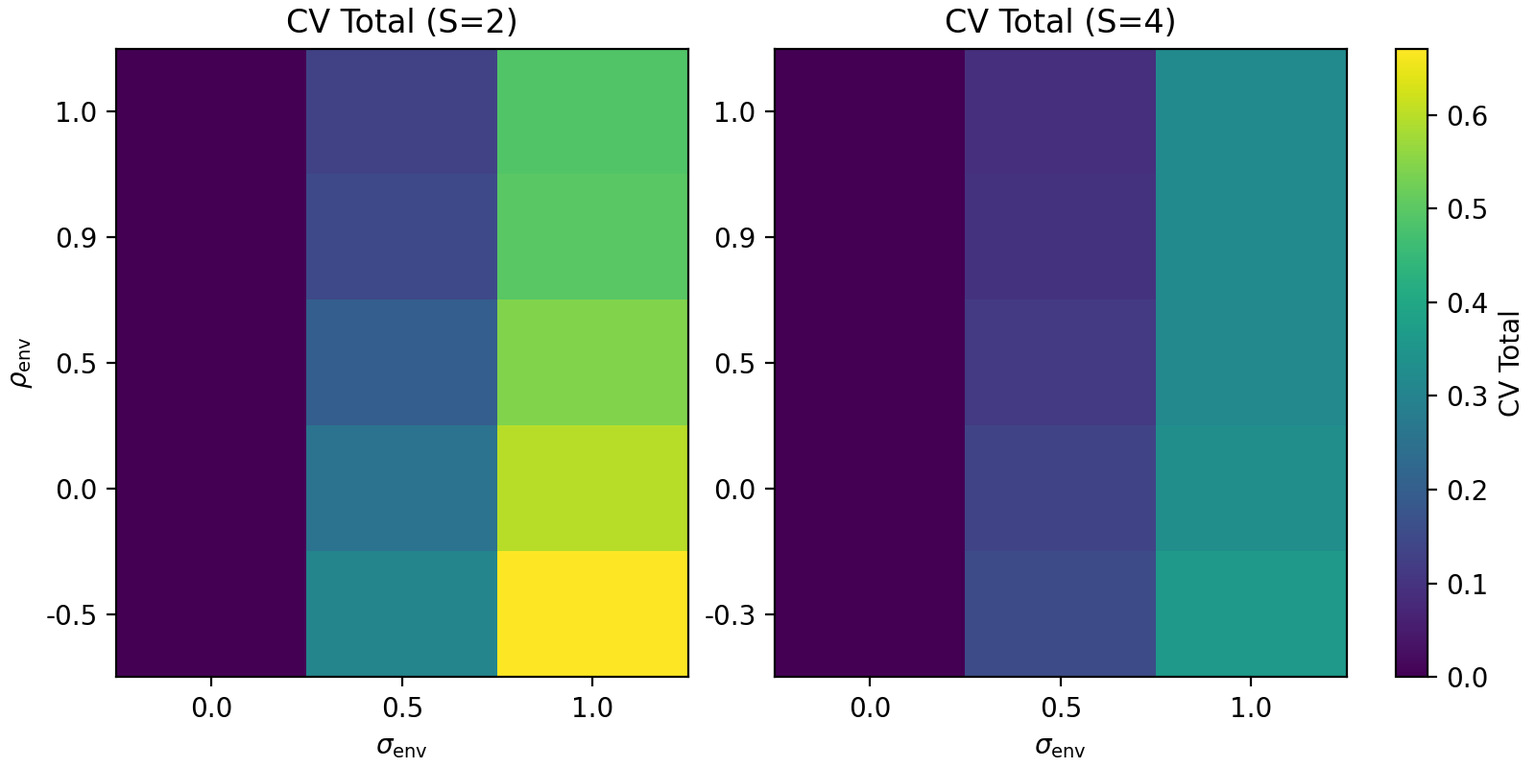
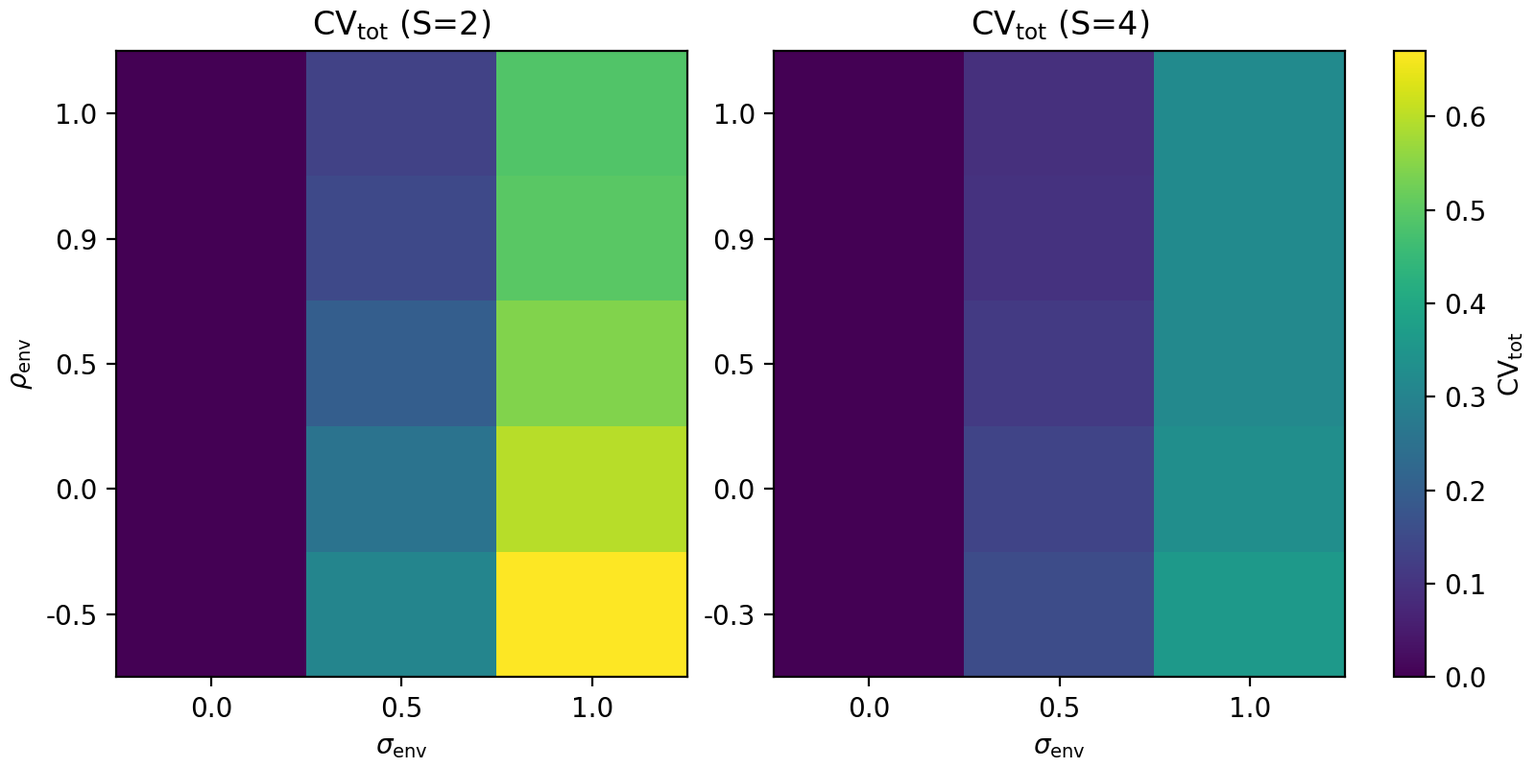
Bundle figure notation/label updates and manuscript-support doc sync

diff --git a/analysis/run_all.py b/analysis/run_all.py
@@ -16,6 +16,7 @@ import argparse
 import subprocess
 from pathlib import Path
 
+from matplotlib.image import AxesImage
 import matplotlib.pyplot as plt
 import numpy as np
 import pandas as pd
@@ -184,7 +185,7 @@ def ensure_reports(summary_df: pd.DataFrame, out_prefix: Path) -> None:
     REPORTS.mkdir(parents=True, exist_ok=True)
     summary_df = ensure_effective_rho(summary_df)
     metric_labels = {
-        "cv_total": "CV Total",
+        "cv_total": r"$\mathrm{CV}_{\mathrm{tot}}$",
         "phi_ldm": r"$\phi_{\mathrm{LdM}}$",
     }
     # Heatmaps of CV and phi_ldm per richness
@@ -205,6 +206,7 @@ def ensure_reports(summary_df: pd.DataFrame, out_prefix: Path) -> None:
             axes_list = [axes]
         else:
             axes_list = list(np.ravel(axes))
+        im: AxesImage | None = None
         for i, (ax, s) in enumerate(zip(axes_list, richness)):
             table = tables[s]
             im = ax.imshow(
@@ -223,6 +225,7 @@ def ensure_reports(summary_df: pd.DataFrame, out_prefix: Path) -> None:
             ax.set_xticklabels([f"{c:.1f}" for c in table.columns])
             ax.set_yticks(range(len(table.index)))
             ax.set_yticklabels([f"{r:.1f}" for r in table.index])
+        assert im is not None
         cbar = fig.colorbar(im, ax=axes_list, fraction=0.030, pad=0.04)
         cbar.set_label(metric_label)
         fig.savefig(out_prefix.with_name(out_prefix.name + f"_{metric}.png"), dpi=200)
@@ -453,10 +456,8 @@ def make_synchrony_panels(summary_mixed: pd.DataFrame, summary_pos: pd.DataFrame
         ("positive", pos_mean, "s"),
     ]:
         # Collapse across richness to one regime-level curve per slope mode.
-        regime_mean = (
-            df_mean.groupby("rho_eff", as_index=False)[["delta_corr"]]
-            .mean()
-            .sort_values("rho_eff")
+        regime_mean = sort_by_rho_eff(
+            pd.DataFrame(df_mean.groupby("rho_eff", as_index=False)[["delta_corr"]].mean())
         )
         ax.plot(
             regime_mean["rho_eff"],
@@ -577,14 +578,14 @@ def make_phi_overlay(phi_runs: dict[str, pd.DataFrame], out_path: Path, sigma_ta
             xlim=(-0.5, 1.0),
         )
         if idx == 0:
-            ax.set_ylabel("CV Total")
+            ax.set_ylabel(r"$\mathrm{CV}_{\mathrm{tot}}$")
             ax.legend(
                 fontsize=8,
                 title=r"$\phi$ ($\sigma_{\mathrm{eff}}$)",
                 title_fontsize=9,
             )
     fig.suptitle(
-        rf"CV versus $\rho_{{\mathrm{{env}}}}$ at $\sigma_{{\mathrm{{env}}}}={sigma_target}$ across $\phi$ (mixed slopes)",
+        rf"$\mathrm{{CV}}_{{\mathrm{{tot}}}}$ versus $\rho_{{\mathrm{{env}}}}$ at $\sigma_{{\mathrm{{env}}}}={sigma_target}$ across $\phi$ (mixed slopes)",
         fontsize=12,
     )
     fig.tight_layout(rect=(0, 0, 1, 0.94))
@@ -796,26 +797,33 @@ def main() -> None:
         supp_phi_src.unlink()
 
     # Magnitude-matched aligned-slope control (if available)
+    matched_path: Path | None = None
     if summary_pos_matched is not None:
-        matched_path = REPORTS / "positive_matched_control.png"
+        matched_path = REPORTS / "figS3_positive_matched_control.png"
         make_positive_matched_control(summary_mixed, summary_pos, summary_pos_matched, matched_path)
 
     # Copy key panels to manuscript/figures
-    copy_figures(
-        [
-            panel_path,
-            panel_pdf_path,
-            sync_panel_path,
-            cv_sync_path,
-            phi_overlay_path,
-            supp_cv_path,
-            supp_phi_path,
-            richness_fig_path,
-        ]
-    )
+    figure_paths = [
+        panel_path,
+        panel_pdf_path,
+        sync_panel_path,
+        cv_sync_path,
+        phi_overlay_path,
+        supp_cv_path,
+        supp_phi_path,
+        richness_fig_path,
+    ]
+    if matched_path is not None:
+        figure_paths.append(matched_path)
+    copy_figures(figure_paths)
 
     # Remove stale supplementary filenames after transition to figS* names.
-    for legacy in [FIG_DIR / "run1_cv_total.png", FIG_DIR / "run1_phi_ldm.png"]:
+    for legacy in [
+        FIG_DIR / "run1_cv_total.png",
+        FIG_DIR / "run1_phi_ldm.png",
+        REPORTS / "positive_matched_control.png",
+        FIG_DIR / "positive_matched_control.png",
+    ]:
         if legacy.exists():
             legacy.unlink()
             print(f"Removed legacy figure {legacy}")

diff --git a/manuscript/text/figure_captions_v2.md b/manuscript/text/figure_captions_v2.md
@@ -1,21 +1,23 @@
-# Figure captions
+# Figure captions (v2)
 
-**Figure 1.** Insurance simulations under mixed versus aligned responses. Community variability and realised growth synchrony for mixed response slopes (directionally diverse) versus positive response slopes (aligned). **(A)** Heatmap of (\mathrm{CV}*{\mathrm{tot}}) across innovation SD (\sigma*{\mathrm{env}}) (columns) and imposed environmental correlation (\rho_{\mathrm{env}}) (rows) for mixed slopes with (S=4); darker colours indicate lower variability. **(B)** As in (A) but for positive slopes with (S=4), showing increasing (\mathrm{CV}*{\mathrm{tot}}) with both (\sigma*{\mathrm{env}}) and (\rho_{\mathrm{env}}). **(C)** (\mathrm{CV}*{\mathrm{tot}}) versus (\rho*{\mathrm{env}}) at (\sigma_{\mathrm{env}}=0.5) for (S=4) and (S=8); points show replicate values and lines show scenario means (mixed: solid; positive: dashed). **(D)** Realised growth synchrony (mean pairwise correlation of per-capita growth rates) versus imposed driver correlation (\rho_{\mathrm{env}}); the dashed line indicates equality ((y=x)). For (\rho_{\mathrm{env}}\ge 0), mixed slopes yield much lower realised synchrony than imposed correlation and often negative growth-rate correlations, whereas positive slopes maintain high realised synchrony that increases with (\rho_{\mathrm{env}}).
+**Figure 1.** Insurance simulations under mixed versus aligned responses. Community variability and realised growth synchrony for mixed response slopes (directionally diverse) versus positive response slopes (aligned). **(A)** Heatmap of $\mathrm{CV}_{\mathrm{tot}}$ across innovation SD $\sigma_{\mathrm{env}}$ (columns) and imposed environmental correlation $\rho_{\mathrm{env}}$ (rows) for mixed slopes with $S=4$. **(B)** As in panel A but for positive slopes with $S=4$. A shared colour scale is used across A-B to highlight magnitude contrast. **(C)** $\mathrm{CV}_{\mathrm{tot}}$ versus imposed correlation (plotted on $\rho_{\mathrm{eff}}$) at $\sigma_{\mathrm{env}}=0.5$ for $S=4$ and $S=8$; points show replicate values and lines show scenario means. **(D)** Realised growth synchrony (mean pairwise correlation of per-capita growth rates) versus imposed driver correlation. The dashed line indicates equality ($y=x$). Mixed slopes show strong decoupling of imposed and realised synchrony, while positive slopes track imposed correlation much more closely.
 
-**Figure 2.** Richness effects on community variability under mixed response directions. Scenario means of (\mathrm{CV}*{\mathrm{tot}}) as a function of species richness (S) for mixed-slope communities, averaged over the shared non-negative imposed-correlation subset ((\rho_{\mathrm{env}}\ge 0)) for each (\sigma_{\mathrm{env}}). For (\sigma_{\mathrm{env}}>0), (\mathrm{CV}_{\mathrm{tot}}) declines sharply from (S=2) to (S=4) and continues to decrease towards (S=8); the (\sigma_{\mathrm{env}}=0) baseline remains near zero across richness.
+**Figure 2.** Richness effects on community variability under mixed response directions. Scenario means of $\mathrm{CV}_{\mathrm{tot}}$ as a function of species richness $S$ for mixed-slope communities, averaged over the shared non-negative imposed-correlation subset ($\rho_{\mathrm{eff}}\ge 0$) for each $\sigma_{\mathrm{env}}$. Over the examined richness range ($S=2$-8), $\mathrm{CV}_{\mathrm{tot}}$ declines strongly for all $\sigma_{\mathrm{env}}>0$, while the $\sigma_{\mathrm{env}}=0$ baseline remains near zero.
 
-**Figure 3.** Imposed versus realised synchrony by slope regime. Mean pairwise correlations of per-capita growth rates ((\mathrm{corr}*{\mathrm{realised}})) as a function of imposed driver correlation (\rho*{\mathrm{env}}) at (\sigma_{\mathrm{env}}=0.5). **(A)** Mixed slopes for (S=2,4,8): realised growth correlations decline strongly as (\rho_{\mathrm{env}}) increases and become negative at high (\rho_{\mathrm{env}}) for low richness. **(B)** Positive slopes for (S=4,8): realised correlations increase with (\rho_{\mathrm{env}}) and remain high. The dashed line indicates equality ((y=x)). **(C)** Difference (\Delta\mathrm{corr}=\mathrm{corr}*{\mathrm{realised}}-\rho*{\mathrm{env}}), shown as richness-averaged regime means: deviations become strongly negative at high (\rho_{\mathrm{env}}) in the mixed-slope regime, while the positive-slope regime shows positive deviations at low (\rho_{\mathrm{env}}) and near-zero to modestly negative deviations at high (\rho_{\mathrm{env}}).
+**Figure 3.** Imposed versus realised synchrony by slope regime at $\sigma_{\mathrm{env}}=0.5$. **(A)** Mixed slopes ($S=2,4,8$): realised growth correlations decline as imposed correlation increases and become negative for low richness at high imposed correlation. **(B)** Positive slopes ($S=4,8$): realised growth correlations increase with imposed correlation and remain strongly positive. Dashed lines indicate equality ($y=x$). **(C)** Difference metric $\Delta\mathrm{corr} = \mathrm{corr}_{\mathrm{realised}} - \rho_{\mathrm{eff}}$, shown as richness-averaged regime means. Mixed slopes become strongly negative at high imposed correlation, whereas positive slopes remain near zero to modestly negative.
 
-**Figure 4.** Community variability versus synchrony metrics in mixed-slope communities. Relationships between scenario mean community variability and synchrony across mixed-slope simulations (post–burn-in, averaged across replicates). **(A)** (\mathrm{CV}*{\mathrm{tot}}) versus Loreau–de Mazancourt synchrony (\phi*{\mathrm{LdM}}). **(B)** (\mathrm{CV}*{\mathrm{tot}}) versus mean pairwise correlation of per-capita growth rates. Colours indicate species richness ((S=2,4,8)). Low synchrony and weak/negative growth-rate correlations are associated with low (\mathrm{CV}*{\mathrm{tot}}), whereas higher synchrony is associated with higher community variability.
+**Figure 4.** Community variability versus synchrony metrics in mixed-slope communities. Scenario means (replicate-averaged) are shown by richness. **(A)** $\mathrm{CV}_{\mathrm{tot}}$ versus Loreau-de Mazancourt synchrony $\phi_{\mathrm{LdM}}$. **(B)** $\mathrm{CV}_{\mathrm{tot}}$ versus mean pairwise growth-rate correlation. Lower synchrony and weaker/negative growth correlations correspond to lower community variability.
 
-**Figure 5.** Sensitivity of mixed-slope insurance patterns to environmental persistence. Community variability (\mathrm{CV}*{\mathrm{tot}}) versus imposed driver correlation (\rho*{\mathrm{env}}) at (\sigma_{\mathrm{env}}=0.5) for mixed-slope communities, shown for (S=2) (left) and (S=4) (right) across four values of temporal autocorrelation (\phi) ((0, 0.7, 0.9, 0.95)). Points show replicate values and lines show scenario means. Legends report (\phi) and the corresponding stationary environmental standard deviation (\sigma_{\mathrm{eff}}=\sigma_{\mathrm{env}}/\sqrt{1-\phi^2}). Increasing (\phi) increases (\mathrm{CV}*{\mathrm{tot}}) (via greater persistence and higher stationary variance), while the richness effect and the generally negative (\mathrm{CV}*{\mathrm{tot}})–(\rho_{\mathrm{env}}) association in the mixed-slope regime remain evident.
-
----
-
-**Figure S1.** Main mixed-grid heatmap summary for community variability. Heatmaps of **CV Total** across imposed driver correlation (\rho_{\mathrm{env}}; rows) and innovation SD (\sigma_{\mathrm{env}}; columns) for mixed slopes at richness (S=2,4,8). A single shared colour scale and one colourbar are used across panels to maximise comparability of magnitude across richness levels.
-
-**Figure S2.** Main mixed-grid heatmap summary for realised community synchrony. Heatmaps of Loreau–de Mazancourt synchrony (\phi_{\mathrm{LdM}}) across imposed driver correlation (\rho_{\mathrm{env}}; rows) and innovation SD (\sigma_{\mathrm{env}}; columns) for mixed slopes at richness (S=2,4,8). As in Figure S1, all panels share one colour scale and a single colourbar for direct cross-panel comparison.
+**Figure 5.** Sensitivity of mixed-slope insurance patterns to environmental persistence. Community variability ($\mathrm{CV}_{\mathrm{tot}}$) versus imposed driver correlation ($\rho_{\mathrm{eff}}$ on x-axis) at $\sigma_{\mathrm{env}}=0.5$, shown for $S=2$ (left) and $S=4$ (right) across $\phi\in\{0,0.7,0.9,0.95\}$. Points show replicate values and lines show scenario means. Legend entries report $\phi$ with corresponding stationary environmental SD, $\sigma_{\mathrm{eff}}=\sigma_{\mathrm{env}}/\sqrt{1-\phi^2}$. Increasing $\phi$ inflates variability, but the mixed-slope richness contrast remains visible.
 
 ---
 
-(Assets live under `analysis/reports/` and are mirrored to `manuscript/figures/` by `analysis/run_all.py`.) 
+**Figure S1.** Main mixed-grid heatmap summary for community variability. Heatmaps of $\mathrm{CV}_{\mathrm{tot}}$ across imposed driver correlation ($\rho_{\mathrm{eff}}$; rows) and innovation SD ($\sigma_{\mathrm{env}}$; columns) for mixed slopes at $S=2,4,8$. A single shared colour scale and one colourbar are used across panels.
+
+**Figure S2.** Main mixed-grid heatmap summary for realised community synchrony. Heatmaps of $\phi_{\mathrm{LdM}}$ across imposed driver correlation ($\rho_{\mathrm{eff}}$; rows) and innovation SD ($\sigma_{\mathrm{env}}$; columns) for mixed slopes at $S=2,4,8$. A shared colour scale and one colourbar are used across panels.
+
+**Figure S3.** Positive-matched control (magnitude-matched aligned slopes). Comparison of mixed, positive-matched, and positive slope regimes for $\mathrm{CV}_{\mathrm{tot}}$ and mean pairwise growth-rate correlation as functions of imposed correlation ($\rho_{\mathrm{eff}}$), shown for $S=4$ and $S=8$. The positive-matched control isolates response sign structure from slope-magnitude differences: it shifts patterns toward mixed communities relative to positive slopes, but does not remove the mixed-vs-aligned contrast.
+
+---
+
+Figure assets are generated into `analysis/reports/` and copied to `manuscript/figures/` by `analysis/run_all.py`.

diff --git a/docs/plan.md b/docs/plan.md
@@ -16,7 +16,12 @@
 - **Core model**: discrete-time stochastic Ricker with competition  
   `N_i(t+1) = N_i(t) * exp( r0 + b_i * z_i(t) - (N_i(t) + Σ_j α_ij N_j(t)) / K_i )`, truncated at a small floor to prevent negative values.
 - **Environmental driver**: multivariate AR(1) process `z_t = φ z_{t-1} + ε_t`, with `ε_t ~ MVN(0, Σ)`; innovation variance scaled by `σ_env^2`, imposed environmental correlation controlled by off-diagonal `ρ_env` in Σ. Default φ=0.4; sensitivity runs at φ ∈ {0, 0.7, 0.9, 0.95}. When a requested `ρ_env` is infeasible for equicorrelation at given S, the simulator clips to the nearest feasible value and records effective `rho_eff`.
-- **Species differences**: two slope modes: mixed slopes linearly spaced -0.5..0.5 (heterogeneous responses) and all-positive slopes 0.1..1.0 (aligned responses). K_i=100; intra- vs interspecific competition ratio `α_inter = 0.3 * α_intra`.
+- **Species differences**: four slope modes are now used in the experiment suite:
+  - mixed slopes linearly spaced -0.5..0.5 (heterogeneous responses),
+  - all-positive slopes 0.1..1.0 (aligned responses),
+  - mixed_narrow slopes -0.25..0.25 (magnitude sensitivity),
+  - positive_matched slopes `|b_i(mixed)|` (sign-structure control with matched magnitudes).
+  K_i=100; intra- vs interspecific competition ratio `α_inter = 0.3 * α_intra`.
 - **Numerical safeguards**: floor abundance at `1e-9`; cap exponent; φ_LdM clipped to [0,1]; checks for NaN/Inf each step.
 - **Tooling choice**: core simulations in **Python 3.12** (uv-managed); plotting with matplotlib.
 
@@ -24,7 +29,7 @@
 
 - **Environmental variance (σ_env)**: {0, 0.2, 0.5, 1.0, 1.5} (reduced to {0,0.5,1.0} for φ sensitivity).
 - **Imposed environmental correlation (ρ_env)**: {-0.5, 0, 0.5, 0.9, 1.0}; effective values stored as `rho_eff` when clipping is required for PD.
-- **Species richness (S)**: {2, 4, 8} for mixed slopes; {4, 8} for positive slopes (S=2 subset at σ=0.5,1.0).
+- **Species richness (S)**: {2, 4, 8} for mixed slopes; {4, 8} for positive and positive_matched slopes (S=2 subset at σ=0.5,1.0 for positive pilot).
 - **Richness sweep for Figure 4**: additional mixed‑slope grid with S ∈ {2,3,4,5,6,7,8} on the full σ_env–ρ_env grid, stored as `data/sim/grid/run1_richness/summaries.parquet`.
 - **AR(1) persistence (φ)**: 0.4 main; sensitivity {0, 0.7, 0.9, 0.95}.
 - **Simulation length**: 600 steps (burn 300) for main/positive grids; 400 (burn 200) for φ sweeps.
@@ -63,9 +68,10 @@
 - **Current phase**: post-review polishing and reproducibility QA (pre-submission handoff state).
 - **Recently completed**:
   1) Full mixed and positive grids plus controls (`positive_matched`, `no_comp_*`, `mixed_narrow`) and φ sensitivity through 0.95.
-  2) Manuscript figure suite and cached-data orchestration (`analysis/run_all.py`) with reproducible regeneration.
+  2) Numbered manuscript figure suite (`fig1_*` to `fig5_*`, `figS1_*` to `figS3_*`) and cached-data orchestration (`analysis/run_all.py`) with reproducible regeneration.
   3) Pylance/type-hint cleanup, `rho_eff` handling in summaries/plots, and test suite expansion (`uv run pytest` currently 8 tests).
   4) Post-hiatus audit identifying that high-φ stress grids have non-negligible floor occupancy in a subset of scenarios, with documentation corrected accordingly.
+  5) Manuscript v2 (`manuscript/text/draft_ms_v2.md`) and captions (`manuscript/text/figure_captions_v2.md`) aligned to implemented model conventions (`rho_env` requested vs `rho_eff` effective; `sigma_env` innovation SD; `sigma_eff` stationary SD in φ analyses).
 - **Next steps if more work is requested**:
   1) Keep manuscript text aligned with the corrected extinction/floor-occupancy interpretation as external edits continue.
   2) Optional robustness extension beyond equicorrelated Σ (block/gradient covariance structures) on reduced grids.

diff --git a/docs/critique_resolution_v2.md b/docs/critique_resolution_v2.md
@@ -1,0 +1,40 @@
+# Critique Resolution Matrix (Manuscript V2)
+
+Date: 2026-02-11
+
+## Colleague 1
+
+| Item | Decision | Resolution |
+| --- | --- | --- |
+| Figure-caption congruence and panel labeling | Accepted | Implemented in numbered figure set and `manuscript/text/figure_captions_v2.md`; A/B/C/D panel references align with current figures. |
+| Shared colour scale where needed | Accepted | Figure 1 A-B and supplementary heatmaps use shared scales as configured in plotting pipeline. |
+| Avoid unsupported species-variance mechanism claim | Accepted | Manuscript wording kept synchrony-mediated and does not claim species-level variance constancy without evidence panel. |
+| Numerical safeguard disclosure | Accepted | Methods now defines exponent/floor safeguards and reports diagnostic rates plus stress-test caveat. |
+| Negative-correlation language robustness | Accepted | Results/captions use `Delta corr` and sign-robust wording instead of geometric above/below phrasing. |
+| Richness overgeneralisation risk | Accepted | Claims bounded to examined richness range ($S=2$-8). |
+| Foreground mechanism | Accepted | Discussion opens with imposed-vs-realised synchrony decoupling mechanism. |
+
+## Colleague 2
+
+| Item | Decision | Resolution |
+| --- | --- | --- |
+| Requested vs effective negative correlation mismatch | Accepted | Manuscript Methods explicitly defines `rho_env` (requested) and `rho_eff` (effective clipped), consistent with stored outputs and plotted axes. |
+| Phi-sensitivity steps/burn mismatch | Accepted | Methods documents 400/200 for reduced phi sweeps; pipeline commands in README match. |
+| Slope-magnitude confound in mixed vs positive contrast | Accepted | Positive-matched control integrated in Methods/Results and surfaced as supplementary Figure S3. |
+| ddof/sample variance wording | Accepted | Metrics section now states empirical sample moments over retained time points. |
+| Guard-hit diagnostics | Accepted | Numerical/eco checks section includes clipping/floor occupancy diagnostics and interpretation boundary. |
+
+## Colleague 3
+
+| Item | Decision | Resolution |
+| --- | --- | --- |
+| Explicit `rho_eff` equation and usage | Accepted | Added full clipping expression and implementation convention in Environmental process section. |
+| Add positive-matched slope regime | Accepted | Added to slope regimes, simulation design, and control-results interpretation. |
+| Add positive-matched grid details | Accepted | Included grid settings and replicate counts in Methods simulation design. |
+| Explicit guard diagnostics and floor-based extinction definition | Accepted | Added guard diagnostics paragraph and explicit floor-occupancy extinction definition. |
+| Clarify sample-variance convention | Accepted | Metrics section now explicitly uses empirical/sample moments. |
+
+## Notes
+
+- Remaining citation placeholders `[REF]` are intentional and confined to two spots where specific references should be selected during final bibliography styling.
+- No new simulation experiments were introduced in this pass; all updates are consistency, documentation, and manuscript/reporting alignment.

diff --git a/docs/log/060_manuscript_v2_alignment.md b/docs/log/060_manuscript_v2_alignment.md
@@ -1,0 +1,47 @@
+# 060 Manuscript V2 Alignment
+
+Date: 2026-02-11
+
+## What was attempted
+
+- Audited `manuscript/text/draft_ms_v2.md` against current code outputs, figure files, and critique notes in `manuscript/text/colleague_critiques.md`.
+- Checked consistency with current pipeline assets under `analysis/reports/` and `manuscript/figures/`.
+- Implemented a full prose/notation cleanup pass and integrated previously requested critique fixes directly into Methods/Results language.
+
+## What changed
+
+1. Manuscript draft rewrite and cleanup (`manuscript/text/draft_ms_v2.md`)
+- Removed formatting corruption artifacts (`*{`, `,,`, malformed inline equation fragments).
+- Removed conversational placeholder text accidentally embedded in Methods.
+- Clarified requested vs effective correlation (`rho_env` vs `rho_eff`) in the AR(1) environment section.
+- Added explicit positive-matched slope regime (`positive_matched`) to slope definitions and simulation design.
+- Aligned variance language with implementation (empirical/sample moments over retained time points).
+- Updated Monte Carlo uncertainty paragraph with representative SE summaries from current replicate-level outputs.
+- Added numerical-guard diagnostics wording with explicit stress-scenario interpretation.
+- Reframed conclusions to avoid overgeneralising richness beyond the examined range.
+
+2. Figure caption harmonisation (`manuscript/text/figure_captions_v2.md`)
+- Standardised notation to `sigma_env`, `rho_env`/`rho_eff`, `phi_LdM`, `CV_tot`/"CV Total" wording.
+- Added supplementary caption for positive-matched control as Figure S3.
+- Ensured caption language is sign-robust for negative-correlation cases.
+
+3. Figure pipeline update (`analysis/run_all.py`)
+- Export positive-matched control with numbered supplementary filename: `figS3_positive_matched_control.png`.
+- Copy Figure S3 into `manuscript/figures/` alongside existing numbered figure set.
+
+4. Documentation sync (`README.md`, `docs/review_rounds.md`, `docs/plan.md`)
+- Updated stale references from `draft.md` / `figure_captions.md` to `draft_ms_v2.md` / `figure_captions_v2.md`.
+- Added Figure S3 to README figure inventory.
+- Updated plan status to reflect numbered figure suite and manuscript v2 alignment state.
+
+## Key checks completed
+
+- Verified current figure inventory in `manuscript/figures/` and `analysis/reports/`.
+- Cross-checked core quantitative claims (example CV values, synchrony contrasts, uncertainty magnitudes) from summary CSVs.
+- Verified stress-test guard diagnostics from `analysis/reports/numerical_guard_rates.csv`.
+
+## Remaining polishing items
+
+- Optional: fill remaining `[REF]` placeholders once final citation library is frozen.
+- Optional: tighten prose style further for target journal voice without changing technical content.
+

diff --git a/README.md b/README.md
@@ -55,10 +55,11 @@ If you have already read the paper, this README is your practical guide to repro
     - `fig5_phi_sensitivity_sigma0.5_extended.png` – Figure 5 φ‑sensitivity overlay.
     - `figS1_run1_cv_total.png` – Supplementary Figure S1 mixed-grid `CV Total` heatmaps.
     - `figS2_run1_phi_ldm.png` – Supplementary Figure S2 mixed-grid `φ_LdM` heatmaps.
+    - `figS3_positive_matched_control.png` – Supplementary Figure S3 positive-matched control panel.
 
 - `manuscript/`
-  - `text/draft.md` – full manuscript draft (Intro, Methods, Results, Discussion).
-  - `text/figure_captions.md` – captions aligned with figure filenames.
+  - `text/draft_ms_v2.md` – full manuscript draft (Intro, Methods, Results, Discussion).
+  - `text/figure_captions_v2.md` – captions aligned with figure filenames.
   - `figures/` – figures copied from `analysis/reports/` by `run_all.py`.
 
 - `docs/`
@@ -354,7 +355,7 @@ uv run python analysis/plot_grid.py \
 Key figures used in the manuscript will appear in:
 
 - `analysis/reports/` – intermediate PNGs and CSVs,
-- `manuscript/figures/` – final panels referenced by `manuscript/text/figure_captions.md`.
+- `manuscript/figures/` – final panels referenced by `manuscript/text/figure_captions_v2.md`.
 
 Approximate runtimes on a modern laptop:
 
@@ -371,7 +372,7 @@ Exact times will depend on hardware, but Monte Carlo uncertainty is small relati
 
 If you are reading this after the paper:
 
-- **Model and experimental design** are described in detail in `manuscript/text/draft.md` (Methods), with notation matched to the code:
+- **Model and experimental design** are described in detail in `manuscript/text/draft_ms_v2.md` (Methods), with notation matched to the code:
   - imposed environmental correlation `ρ_env`,
   - innovation SD `σ_env` and effective stationary SD `σ_eff` for φ analyses,
   - realised synchrony `φ_LdM` and growth‑rate correlations.
@@ -381,7 +382,7 @@ If you are reading this after the paper:
   - Imposed vs realised synchrony and their divergence.
   - φ‑sensitivity and effective environmental variance.
   - No‑competition and slope‑magnitude controls.
-- **Figures**: see `manuscript/text/figure_captions.md` for a mapping from figure labels to files in `manuscript/figures/`.
+- **Figures**: see `manuscript/text/figure_captions_v2.md` for a mapping from figure labels to files in `manuscript/figures/`.
 
 For deeper scientific context and interpretation, consult:
 

diff --git a/docs/review_rounds.md b/docs/review_rounds.md
@@ -19,7 +19,7 @@
 
 ## What to look at
 - Figures: `analysis/reports/fig1_panels.pdf` (also copied to `manuscript/figures/`) plus `fig5_phi_sensitivity_sigma0.5_extended.png`.
-- Manuscript draft: `manuscript/text/draft.md` (outline, parameter table, key numbers) and captions in `manuscript/text/figure_captions.md`.
+- Manuscript draft: `manuscript/text/draft_ms_v2.md` (outline, parameter table, key numbers) and captions in `manuscript/text/figure_captions_v2.md`.
 - Interpretation notes: `docs/interpretation_notes.md` for per-figure takeaways and follow-ups.
 
 ## Suggested PI focus / questions (Round 1)
@@ -43,3 +43,15 @@
 - Final interpretation now distinguishes:
   - low floor occupancy in the main inference grids (`run1`, `pos_full`), and
   - non-negligible floor occupancy in subsets of high-persistence stress grids (`phi09_reduced`, `phi095_reduced`), primarily at low richness and high σ_env.
+
+## Round 4 – Manuscript v2 alignment pass (2026-02-11)
+
+- Updated manuscript artifact references to the active v2 files:
+  - draft: `manuscript/text/draft_ms_v2.md`
+  - captions: `manuscript/text/figure_captions_v2.md`
+- Integrated key critique clarifications directly into v2 prose:
+  - explicit `rho_env` (requested) vs `rho_eff` (effective),
+  - explicit positive-matched slope control definition in Methods,
+  - sample-variance wording aligned with implementation,
+  - numerical-guard diagnostics and high-stress interpretation language.
+- Added supplementary Figure S3 handling in pipeline output (`figS3_positive_matched_control.png`) to surface the magnitude-matched aligned-slope control used in robustness checks.
